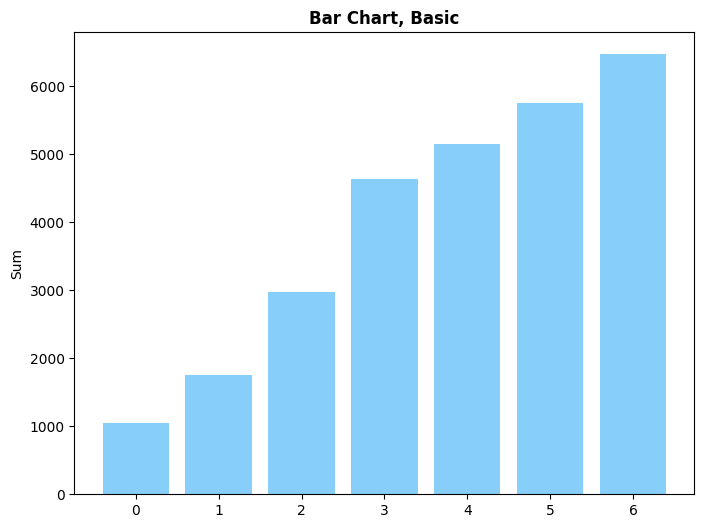
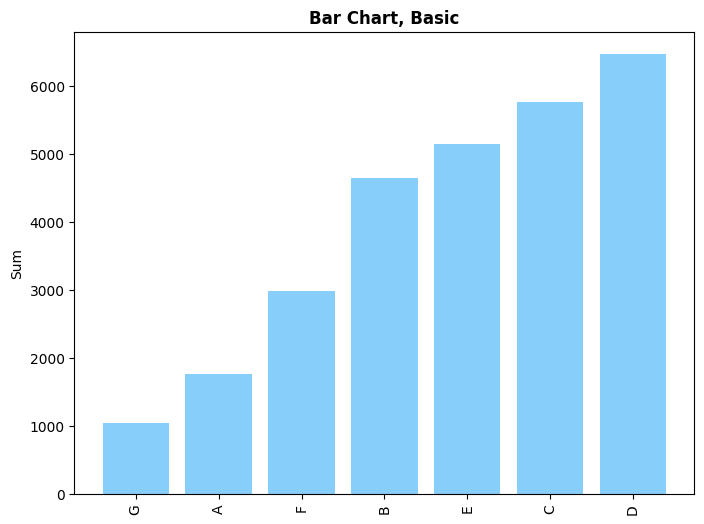
Add heatmaps

diff --git a/dexplorer/visualizations/plot_multivar.py b/dexplorer/visualizations/plot_multivar.py
@@ -1,0 +1,83 @@
+### Set Up ###
+
+# global imports
+import numpy as np
+import pandas as pd
+import matplotlib.pyplot as plt
+import matplotlib.colors as mcolors
+
+from typing import Tuple, Any
+
+### Classes ###
+
+class Heatmap():
+    def __init__(self, data: pd.DataFrame, x_label: str, y_label: str, diverging: bool=False, 
+                 figsize: Tuple=(8, 6)):
+        # set member variables
+        self.data = data
+        self.x_label = x_label
+        self.y_label = y_label
+        self.figsize = figsize
+
+        # set color scheme
+        if diverging == True:
+            self.cmap = 'RdYlGn'
+            self.norm = mcolors.TwoSlopeNorm(vmin=self.data.values.min(), 
+                                             vmax=self.data.values.max(), 
+                                             vcenter=0
+                                            )
+        
+        else:
+            self.cmap = 'YlOrRd'
+            self.norm = None
+            
+    def _get_plot_axes(self, title: str, x_ticks_labels: str=None, y_ticks_labels: str=None):
+        # add axes
+        fig = plt.figure(figsize=self.figsize)
+        plt.xlabel(self.x_label)
+        plt.ylabel(self.y_label)
+        plt.title(title, weight='bold')
+
+        # adjust axes labels
+        if x_ticks_labels is not None:
+            x = np.arange(len(x_ticks_labels))
+            plt.xticks(x, x_ticks_labels, rotation=90)
+
+        if y_ticks_labels is not None:
+            y = np.arange(len(y_ticks_labels))
+            plt.yticks(y, y_ticks_labels)
+
+        # return figure
+        return fig
+    
+    def _add_plot_data(self, fig: Any, add_text: bool=False):
+        # add data
+        plt.imshow(self.data, cmap=self.cmap, norm=self.norm)
+
+        # add text to graph
+        if add_text == True:
+            for i in range(self.data.shape[0]):
+                for j in range(self.data.shape[1]):
+                    text = plt.text(j, i, str(self.data.values[i, j])[:6],
+                                    ha='center', 
+                                    va='center', 
+                                    fontsize=11
+                                    )
+                    
+        # return figure
+        return fig
+    
+    def create_plot(self, title: str, x_ticks_labels: list, y_ticks_labels: list,
+                    add_text: bool=False):
+        # get plot axes
+        fig = self._get_plot_axes(title, 
+                                  x_ticks_labels=x_ticks_labels, 
+                                  y_ticks_labels=y_ticks_labels
+                                  )
+
+        # add data to the plot
+        fig = self._add_plot_data(fig, add_text=add_text)
+
+        # return figure
+        return fig
+    

diff --git a/examples/heatmap.py b/examples/heatmap.py
@@ -1,0 +1,61 @@
+### Set Up ###
+
+# global imports
+import os
+import pandas as pd
+import matplotlib.pyplot as plt
+from dexplorer.visualizations import Heatmap
+
+# function arguments
+x_label = ''
+y_label = ''
+figsize = (9, 9)
+
+### Main Program ###
+
+# get data
+data = pd.read_csv('data.csv')
+data.drop(columns=['feature_9', 'feature_10', 'feature_11', 'y'], 
+          inplace=True
+          )
+data = data.corr()
+
+# create heatmap object
+diverging = True
+heatmap = Heatmap(data, x_label, y_label, 
+                  diverging, 
+                  figsize=figsize
+                  )
+
+# create diverging heatmap
+title = 'Heatmap, Diverging'
+x_ticks_labels = data.columns.tolist()
+y_ticks_labels = x_ticks_labels
+add_text = True
+
+heatmap_diverging = heatmap.create_plot(title, x_ticks_labels, y_ticks_labels,
+                                        add_text=add_text
+                                        )
+plt.savefig(os.path.join('plots', 'heatmap_diverging.png'),
+            bbox_inches='tight'
+            )
+
+# create heatmap object
+diverging = False
+heatmap = Heatmap(data, x_label, y_label, 
+                  diverging, 
+                  figsize=figsize
+                  )
+
+# create sequential heatmap
+title = 'Heatmap, Sequential'
+x_ticks_labels = data.columns.tolist()
+y_ticks_labels = x_ticks_labels
+add_text = True
+
+heatmap_diverging = heatmap.create_plot(title, x_ticks_labels, y_ticks_labels,
+                                        add_text=add_text
+                                        )
+plt.savefig(os.path.join('plots', 'heatmap_sequential.png'),
+            bbox_inches='tight'
+            )

diff --git a/dexplorer/visualizations/plot1d.py b/dexplorer/visualizations/plot1d.py
@@ -111,7 +111,7 @@ class BarChart(Plot):
         fig = self._get_plot_axes(title, 
                                   x_ticks_width=x_ticks_width, 
                                   y_ticks_width=y_ticks_width,
-                                  x_ticks_labels=None
+                                  x_ticks_labels=self.labels
                                   )
         
         # add data to the plot

diff --git a/dexplorer/visualizations/plot.py b/dexplorer/visualizations/plot.py
@@ -48,7 +48,7 @@ class Plot():
         # adjust axes labels
         if x_ticks_labels is not None:
             x = np.arange(len(x_ticks_labels))
-            plt.xticks(x, x_ticks_labels, rotation='90')
+            plt.xticks(x, x_ticks_labels, rotation=90)
 
         # return figure
         return fig

diff --git a/dexplorer/visualizations/__init__.py b/dexplorer/visualizations/__init__.py
@@ -1,8 +1,10 @@
 from .plot1d import BarChart, Histogram
 from .plot2d import LineChart, Scatterplot
+from .plot_multivar import Heatmap
 
 __all__ = ['BarChart', 
            'Histogram',
            'LineChart', 
-           'Scatterplot'
+           'Scatterplot',
+           'Heatmap'
           ]
